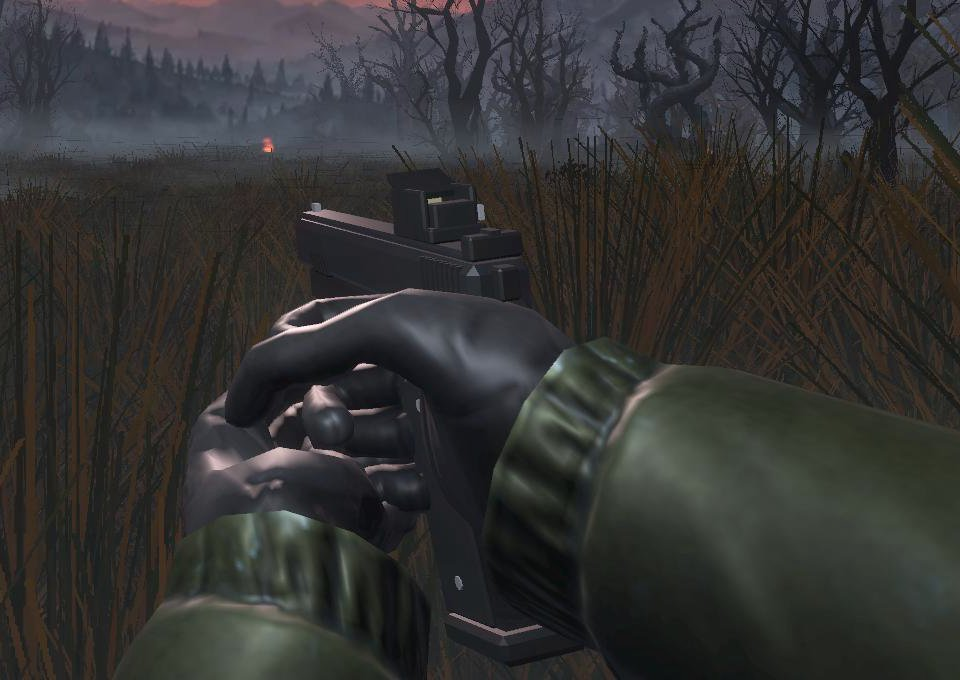
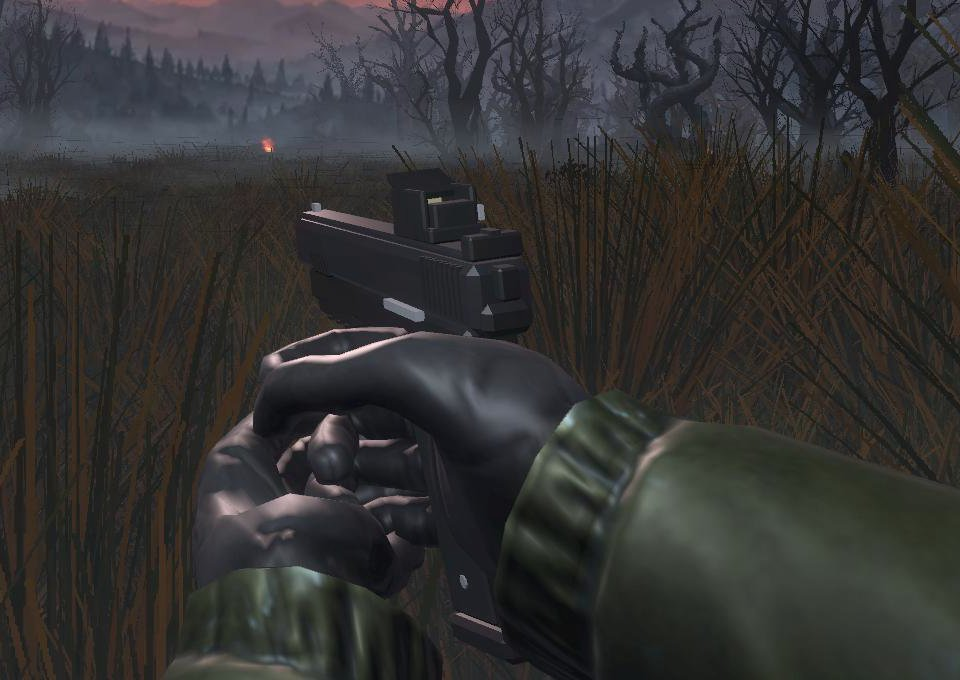
fix: 총이 오른손 손바닥에 파묻혀 보이던 문제 — 손잡이를 날씬하게, 총을 엄지·검지 사이로 올림 — WU-29
- 손 표면 점이 총 안으로 파고든 수를 재서 맞춤: 36 → 25 (손잡이 속 파고듦은 거의 없어짐)
- Mixamo 주먹 안쪽이 손잡이보다 작았다 → 손잡이 2.8×5.0 → 2.4×4.4 cm (손잡이 판·나사·탄창도 맞춤)
- 총을 6 mm 올려 엄지·검지 사이에 걸치게 (--grip 0.100,0.002,-0.004,-9)
- 검지·엄지 구부림은 표면에 닿을 만큼으로 줄이고, 가운데·약지·새끼는 10° 펴 손잡이 표면에 닿게
- validate 통과 (길이 0.212 m)

diff --git a/art/blender/make_pistol.py b/art/blender/make_pistol.py
@@ -38,12 +38,14 @@ def parse_args():
     p.add_argument("--arms-fbx", default="", help="Mixamo 캐릭터 FBX — 주면 스크립트 손 대신 이 캐릭터의 팔(팔꿈치 아래)을 쓴다")
     p.add_argument("--arms-anim", default="", help="두 손으로 권총을 쥔 Mixamo 동작 FBX (예: pistol idle)")
     p.add_argument("--arms-frame", type=int, default=10, help="그 동작에서 손 모양을 가져올 프레임")
-    p.add_argument("--grip", default="0.100,-0.014,-0.002,-9",  # 손잡이가 엄지·검지 사이에 끼고, 엄지 쪽으로 붙이고, 총구가 손 방향과 일직선
+    p.add_argument("--grip", default="0.100,0.002,-0.004,-9",  # 손잡이가 엄지·검지 사이에 끼고, 엄지 쪽으로 붙이고, 총구가 손 방향과 일직선
                    help="오른손 손목에서 손잡이까지: 손끝 방향 m, 위 m, 오른쪽 m, 총구 좌우 각도(도)")
     p.add_argument("--left-thumb", default="0,0,-55",
                    help="왼손 엄지 첫 마디를 더 돌리는 각도 (x,y,z 도) — 위로 선 엄지를 총 옆면을 따라 앞으로 눕힐 때")
-    p.add_argument("--bend", default="RightHandIndex1=35,0,0;RightHandIndex2=35,0,0;RightHandIndex3=20,0,0;"
-                                     "RightHandThumb2=30,0,0;RightHandThumb3=25,0,0",   # 오른손 검지·엄지를 총 쪽으로 감아 쥐게
+    p.add_argument("--bend", default="RightHandIndex1=22,0,0;RightHandIndex2=22,0,0;RightHandIndex3=12,0,0;"
+                                     "RightHandThumb2=18,0,0;RightHandThumb3=15,0,0;"
+                                     "RightHandMiddle1=-10,0,0;RightHandRing1=-10,0,0;RightHandPinky1=-10,0,0",
+                   # 검지·엄지는 총 쪽으로 감되 손잡이 속으로 파고들지 않게, 나머지 세 손가락은 살짝 펴 손잡이 표면에 닿게
                    help="손가락 관절을 더 구부리는 각도. '뼈이름=x,y,z;...' (도). 예: RightHandIndex1=0,0,-20")
     p.add_argument("--max-texture", type=int, default=1024)
     p.add_argument("--sleeve", default="0.30,0.32,0.22",
@@ -216,7 +218,7 @@ def build_frame():
     parts = [
         box((0, 0.055, 0.035), (0.022, 0.180, 0.018), "frame", bevel=0.0025),       # 몸통 (앞 끝까지)
         box((0, 0.112, 0.0235), (0.019, 0.050, 0.007), "frame", bevel=0.001),       # 아래 레일
-        box(grip_point(0, 0, 0), (0.028, 0.050, 0.108), "frame", rot=GRIP_ROT, bevel=0.006),  # 손잡이 뼈대
+        box(grip_point(0, 0.002, 0), (0.024, 0.044, 0.108), "frame", rot=GRIP_ROT, bevel=0.006),  # 손잡이 뼈대 (Mixamo 손이 감쌀 수 있게 날씬하게)
         box((0, 0.043, 0.006), (0.010, 0.005, 0.030), "frame"),                     # 방아쇠울 앞 (각지게)
         box((0, 0.020, -0.0085), (0.010, 0.050, 0.005), "frame"),                   # 방아쇠울 아래
         box((0, -0.040, 0.049), (0.020, 0.018, 0.012), "frame", bevel=0.003),       # 비버테일
@@ -227,9 +229,9 @@ def build_frame():
     for i in range(3):                                                              # 레일 홈
         parts.append(box((0, 0.096 + i * 0.012, 0.0195), (0.0195, 0.004, 0.002), "bore"))
     for side in (1, -1):                                                            # 손잡이 판 양쪽 (오돌토돌)
-        parts.append(box(grip_point(side * 0.0152, 0.004, -0.010), (0.0026, 0.040, 0.090), "grip", rot=GRIP_ROT, bevel=0.001))
+        parts.append(box(grip_point(side * 0.0132, 0.004, -0.010), (0.0024, 0.036, 0.090), "grip", rot=GRIP_ROT, bevel=0.001))
         for gz in (0.024, -0.042):                                                  # 나사 위·아래
-            parts.append(cyl(grip_point(side * 0.0160, 0.004, gz), grip_point(side * 0.0172, 0.004, gz), 0.0026, "steel", segs=8))
+            parts.append(cyl(grip_point(side * 0.0140, 0.004, gz), grip_point(side * 0.0152, 0.004, gz), 0.0024, "steel", segs=8))
     return join(parts, "Frame")
 
 
@@ -242,8 +244,8 @@ def build_trigger():
 
 def build_magazine():
     top = grip_point(0, 0.002, 0.050)
-    body = box(grip_point(0, 0.002, -0.004), (0.022, 0.034, 0.108), "frame", rot=GRIP_ROT)
-    base = box(grip_point(0, 0.004, -0.062), (0.034, 0.052, 0.010), "frame", rot=GRIP_ROT, bevel=0.0025)   # 넓은 바닥판
+    body = box(grip_point(0, 0.003, -0.004), (0.020, 0.032, 0.108), "frame", rot=GRIP_ROT)
+    base = box(grip_point(0, 0.004, -0.062), (0.030, 0.048, 0.010), "frame", rot=GRIP_ROT, bevel=0.0025)   # 넓은 바닥판
     lip = box(grip_point(0, 0.006, 0.052), (0.010, 0.020, 0.004), "steel", rot=GRIP_ROT)
     mag = join([body, base, lip], "Magazine")
     set_origin(mag, top)
